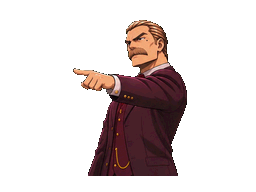
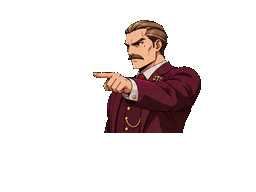
Penna con la hoja del prompt unificado (8 poses en pares, con taza de café)
Claude-Session: https://claude.ai/code/session_01Xb94a44mJyTYV8GKKMfxw2

Changed region(s): [[0.2812, 0.0938, 0.8125, 0.9375]]

diff --git a/js/assets.js b/js/assets.js
@@ -1,7 +1,7 @@
 /* Rutas de las imágenes del juego. Para cambiar un sprite, reemplaza el PNG. */
 const ART={ines:{angry:"assets/personajes/ines/angry.png",angryTalk:"assets/personajes/ines/angryTalk.png",ap1:"assets/personajes/ines/ap1.png",ap10:"assets/personajes/ines/ap10.png",ap11:"assets/personajes/ines/ap11.png",ap12:"assets/personajes/ines/ap12.png",ap13:"assets/personajes/ines/ap13.png",ap14:"assets/personajes/ines/ap14.png",ap15:"assets/personajes/ines/ap15.png",ap16:"assets/personajes/ines/ap16.png",ap2:"assets/personajes/ines/ap2.png",ap3:"assets/personajes/ines/ap3.png",ap4:"assets/personajes/ines/ap4.png",ap5:"assets/personajes/ines/ap5.png",ap6:"assets/personajes/ines/ap6.png",ap7:"assets/personajes/ines/ap7.png",ap8:"assets/personajes/ines/ap8.png",ap9:"assets/personajes/ines/ap9.png",base:"assets/personajes/ines/base.png",down:"assets/personajes/ines/down.png",downTalk:"assets/personajes/ines/downTalk.png",face:"assets/personajes/ines/face.png",le1:"assets/personajes/ines/le1.png",le10:"assets/personajes/ines/le10.png",le11:"assets/personajes/ines/le11.png",le12:"assets/personajes/ines/le12.png",le13:"assets/personajes/ines/le13.png",le14:"assets/personajes/ines/le14.png",le15:"assets/personajes/ines/le15.png",le16:"assets/personajes/ines/le16.png",le2:"assets/personajes/ines/le2.png",le3:"assets/personajes/ines/le3.png",le4:"assets/personajes/ines/le4.png",le5:"assets/personajes/ines/le5.png",le6:"assets/personajes/ines/le6.png",le7:"assets/personajes/ines/le7.png",le8:"assets/personajes/ines/le8.png",le9:"assets/personajes/ines/le9.png",papel:"assets/personajes/ines/papel.png",papelTalk:"assets/personajes/ines/papelTalk.png",point:"assets/personajes/ines/point.png",pointTalk:"assets/personajes/ines/pointTalk.png",shock:"assets/personajes/ines/shock.png",shockTalk:"assets/personajes/ines/shockTalk.png",smug:"assets/personajes/ines/smug.png",smugTalk:"assets/personajes/ines/smugTalk.png",sweat:"assets/personajes/ines/sweat.png",sweatTalk:"assets/personajes/ines/sweatTalk.png",talk:"assets/personajes/ines/talk.png",think:"assets/personajes/ines/think.png",thinkTalk:"assets/personajes/ines/thinkTalk.png"},
 
-fiscal:{angry:"assets/personajes/fiscal/angry.png",angryTalk:"assets/personajes/fiscal/angryTalk.png",base:"assets/personajes/fiscal/base.png",cross:"assets/personajes/fiscal/cross.png",crossTalk:"assets/personajes/fiscal/crossTalk.png",cuff:"assets/personajes/fiscal/cuff.png",cuffTalk:"assets/personajes/fiscal/cuffTalk.png",down:"assets/personajes/fiscal/down.png",downTalk:"assets/personajes/fiscal/downTalk.png",face:"assets/personajes/fiscal/face.png",facepalm:"assets/personajes/fiscal/facepalm.png",facepalmTalk:"assets/personajes/fiscal/facepalmTalk.png",fist:"assets/personajes/fiscal/fist.png",fistTalk:"assets/personajes/fiscal/fistTalk.png",frente_angry:"assets/personajes/fiscal/frente_angry.png",frente_angryTalk:"assets/personajes/fiscal/frente_angryTalk.png",frente_base:"assets/personajes/fiscal/frente_base.png",frente_cross:"assets/personajes/fiscal/frente_cross.png",frente_crossTalk:"assets/personajes/fiscal/frente_crossTalk.png",frente_down:"assets/personajes/fiscal/frente_down.png",frente_downTalk:"assets/personajes/fiscal/frente_downTalk.png",frente_gesture:"assets/personajes/fiscal/frente_gesture.png",frente_gestureTalk:"assets/personajes/fiscal/frente_gestureTalk.png",frente_proud:"assets/personajes/fiscal/frente_proud.png",frente_proudTalk:"assets/personajes/fiscal/frente_proudTalk.png",frente_serious:"assets/personajes/fiscal/frente_serious.png",frente_seriousTalk:"assets/personajes/fiscal/frente_seriousTalk.png",frente_shock:"assets/personajes/fiscal/frente_shock.png",frente_shockTalk:"assets/personajes/fiscal/frente_shockTalk.png",frente_smile:"assets/personajes/fiscal/frente_smile.png",frente_smileTalk:"assets/personajes/fiscal/frente_smileTalk.png",frente_smug:"assets/personajes/fiscal/frente_smug.png",frente_smugTalk:"assets/personajes/fiscal/frente_smugTalk.png",frente_talk:"assets/personajes/fiscal/frente_talk.png",frente_think:"assets/personajes/fiscal/frente_think.png",frente_think2:"assets/personajes/fiscal/frente_think2.png",frente_think2Talk:"assets/personajes/fiscal/frente_think2Talk.png",frente_thinkTalk:"assets/personajes/fiscal/frente_thinkTalk.png",gesture:"assets/personajes/fiscal/gesture.png",gestureTalk:"assets/personajes/fiscal/gestureTalk.png",point:"assets/personajes/fiscal/point.png",pointTalk:"assets/personajes/fiscal/pointTalk.png",proud:"assets/personajes/fiscal/proud.png",proud2:"assets/personajes/fiscal/proud2.png",proud2Talk:"assets/personajes/fiscal/proud2Talk.png",proudTalk:"assets/personajes/fiscal/proudTalk.png",serious:"assets/personajes/fiscal/serious.png",seriousTalk:"assets/personajes/fiscal/seriousTalk.png",shock:"assets/personajes/fiscal/shock.png",shockTalk:"assets/personajes/fiscal/shockTalk.png",smile:"assets/personajes/fiscal/smile.png",smileTalk:"assets/personajes/fiscal/smileTalk.png",smug:"assets/personajes/fiscal/smug.png",smug2:"assets/personajes/fiscal/smug2.png",smug2Talk:"assets/personajes/fiscal/smug2Talk.png",smugTalk:"assets/personajes/fiscal/smugTalk.png",stop:"assets/personajes/fiscal/stop.png",stopTalk:"assets/personajes/fiscal/stopTalk.png",sweat:"assets/personajes/fiscal/sweat.png",sweatTalk:"assets/personajes/fiscal/sweatTalk.png",talk:"assets/personajes/fiscal/talk.png",think:"assets/personajes/fiscal/think.png",think2:"assets/personajes/fiscal/think2.png",think2Talk:"assets/personajes/fiscal/think2Talk.png",thinkTalk:"assets/personajes/fiscal/thinkTalk.png"},
+fiscal:{angry:"assets/personajes/fiscal/angry.png",angryTalk:"assets/personajes/fiscal/angryTalk.png",base:"assets/personajes/fiscal/base.png",cafe:"assets/personajes/fiscal/cafe.png",cafeTalk:"assets/personajes/fiscal/cafeTalk.png",cross:"assets/personajes/fiscal/cross.png",crossTalk:"assets/personajes/fiscal/crossTalk.png",cuff:"assets/personajes/fiscal/cuff.png",cuffTalk:"assets/personajes/fiscal/cuffTalk.png",down:"assets/personajes/fiscal/down.png",downTalk:"assets/personajes/fiscal/downTalk.png",face:"assets/personajes/fiscal/face.png",facepalm:"assets/personajes/fiscal/facepalm.png",facepalmTalk:"assets/personajes/fiscal/facepalmTalk.png",fist:"assets/personajes/fiscal/fist.png",fistTalk:"assets/personajes/fiscal/fistTalk.png",frente_angry:"assets/personajes/fiscal/frente_angry.png",frente_angryTalk:"assets/personajes/fiscal/frente_angryTalk.png",frente_base:"assets/personajes/fiscal/frente_base.png",frente_cross:"assets/personajes/fiscal/frente_cross.png",frente_crossTalk:"assets/personajes/fiscal/frente_crossTalk.png",frente_down:"assets/personajes/fiscal/frente_down.png",frente_downTalk:"assets/personajes/fiscal/frente_downTalk.png",frente_gesture:"assets/personajes/fiscal/frente_gesture.png",frente_gestureTalk:"assets/personajes/fiscal/frente_gestureTalk.png",frente_proud:"assets/personajes/fiscal/frente_proud.png",frente_proudTalk:"assets/personajes/fiscal/frente_proudTalk.png",frente_serious:"assets/personajes/fiscal/frente_serious.png",frente_seriousTalk:"assets/personajes/fiscal/frente_seriousTalk.png",frente_shock:"assets/personajes/fiscal/frente_shock.png",frente_shockTalk:"assets/personajes/fiscal/frente_shockTalk.png",frente_smile:"assets/personajes/fiscal/frente_smile.png",frente_smileTalk:"assets/personajes/fiscal/frente_smileTalk.png",frente_smug:"assets/personajes/fiscal/frente_smug.png",frente_smugTalk:"assets/personajes/fiscal/frente_smugTalk.png",frente_talk:"assets/personajes/fiscal/frente_talk.png",frente_think:"assets/personajes/fiscal/frente_think.png",frente_think2:"assets/personajes/fiscal/frente_think2.png",frente_think2Talk:"assets/personajes/fiscal/frente_think2Talk.png",frente_thinkTalk:"assets/personajes/fiscal/frente_thinkTalk.png",gesture:"assets/personajes/fiscal/gesture.png",gestureTalk:"assets/personajes/fiscal/gestureTalk.png",point:"assets/personajes/fiscal/point.png",pointTalk:"assets/personajes/fiscal/pointTalk.png",proud:"assets/personajes/fiscal/proud.png",proud2:"assets/personajes/fiscal/proud2.png",proud2Talk:"assets/personajes/fiscal/proud2Talk.png",proudTalk:"assets/personajes/fiscal/proudTalk.png",serious:"assets/personajes/fiscal/serious.png",seriousTalk:"assets/personajes/fiscal/seriousTalk.png",shock:"assets/personajes/fiscal/shock.png",shockTalk:"assets/personajes/fiscal/shockTalk.png",smile:"assets/personajes/fiscal/smile.png",smileTalk:"assets/personajes/fiscal/smileTalk.png",smug:"assets/personajes/fiscal/smug.png",smug2:"assets/personajes/fiscal/smug2.png",smug2Talk:"assets/personajes/fiscal/smug2Talk.png",smugTalk:"assets/personajes/fiscal/smugTalk.png",stop:"assets/personajes/fiscal/stop.png",stopTalk:"assets/personajes/fiscal/stopTalk.png",sweat:"assets/personajes/fiscal/sweat.png",sweatTalk:"assets/personajes/fiscal/sweatTalk.png",talk:"assets/personajes/fiscal/talk.png",think:"assets/personajes/fiscal/think.png",think2:"assets/personajes/fiscal/think2.png",think2Talk:"assets/personajes/fiscal/think2Talk.png",thinkTalk:"assets/personajes/fiscal/thinkTalk.png"},
 
 testigo:{base:"assets/personajes/testigo/base.png",talk:"assets/personajes/testigo/talk.png",smug:"assets/personajes/testigo/smug.png",smugTalk:"assets/personajes/testigo/smugTalk.png",proud:"assets/personajes/testigo/proud.png",proudTalk:"assets/personajes/testigo/proudTalk.png",sweat:"assets/personajes/testigo/sweat.png",sweatTalk:"assets/personajes/testigo/sweatTalk.png",shock:"assets/personajes/testigo/shock.png",shockTalk:"assets/personajes/testigo/shockTalk.png",angry:"assets/personajes/testigo/angry.png",angryTalk:"assets/personajes/testigo/angryTalk.png",break:"assets/personajes/testigo/break.png",breakTalk:"assets/personajes/testigo/breakTalk.png",cry:"assets/personajes/testigo/cry.png",cryTalk:"assets/personajes/testigo/cryTalk.png",face:"assets/personajes/testigo/face.png"},
 

diff --git a/js/engine.js b/js/engine.js
@@ -578,7 +578,7 @@ function drawBG(pos){
 /* Qué celda de la hoja usa cada emoción: [callado, hablando, parpadeo] */
 const AMAP={
   ines:{normal:["base","talk"],serious:["base","talk"],smug:["smug","smugTalk"],smile:["smug","smugTalk"],sweat:["sweat","sweatTalk"],shock:["shock","shockTalk"],think:["think","thinkTalk"],angry:["angry","angryTalk"],down:["down","downTalk"],"pose:point":["point","pointTalk"],"pose:papel":["papel","papelTalk"],"pose:papelThink":["le16","le16"]},
-  fiscal:{normal:["base","talk"],serious:["base","talk"],smug:["smug","smugTalk"],smile:["smile","smileTalk"],shock:["shock","shockTalk"],sweat:["sweat","sweatTalk"],angry:["angry","angryTalk"],disdain:["cross","crossTalk"],think:["think","thinkTalk"],proud:["proud2","proud2Talk"],laugh:["proud","proudTalk"],down:["down","downTalk"],facepalm:["facepalm","facepalmTalk"],"pose:point":["point","pointTalk"],"pose:cafe":["fist","fistTalk"],"pose:gesto":["gesture","gestureTalk"],"pose:cruzado":["cross","crossTalk"],"pose:alto":["stop","stopTalk"],"pose:puno":["fist","fistTalk"]},
+  fiscal:{normal:["base","talk"],serious:["base","talk"],smug:["smug","smugTalk"],smile:["smile","smileTalk"],shock:["shock","shockTalk"],sweat:["sweat","sweatTalk"],angry:["angry","angryTalk"],disdain:["cross","crossTalk"],think:["think","thinkTalk"],proud:["proud2","proud2Talk"],laugh:["proud","proudTalk"],down:["down","downTalk"],facepalm:["facepalm","facepalmTalk"],"pose:point":["point","pointTalk"],"pose:cafe":["cafe","cafeTalk"],"pose:gesto":["gesture","gestureTalk"],"pose:cruzado":["cross","crossTalk"],"pose:alto":["stop","stopTalk"],"pose:puno":["fist","fistTalk"]},
   testigo:{normal:["base","talk"],smile:["proud","proudTalk"],smug:["smug","smugTalk"],sweat:["sweat","sweatTalk"],shock:["shock","shockTalk"],angry:["angry","angryTalk"],break:["break","breakTalk"],cry:["cry","cryTalk"]},
   jueza:{normal:["base","talk"],serious:["serious","seriousTalk"],shock:["shock","shockTalk"],think:["think","thinkTalk"],smile:["smile","smileTalk"],confused:["confused","confusedTalk"],disappoint:["disappoint","disappointTalk"],gavel:["gavel","gavelTalk"]},
   cote:{normal:["base","talk"],smile:["happy","happyTalk"],eat:["happy","happyTalk"],excited:["excited","excitedTalk"],think:["think","thinkTalk"],serious:["serious","seriousTalk"],sweat:["sweat","sweatTalk"],worried:["sweat","sweatTalk"],shock:["shock","shockTalk"],pout:["pout","poutTalk"]},

diff --git a/prueba-final.html b/prueba-final.html
@@ -5,7 +5,7 @@
 <meta name="viewport" content="width=device-width, initial-scale=1">
 <title>ACTA CERO — Prueba del final</title>
 <link href="https://fonts.googleapis.com/css2?family=Bebas+Neue&family=Pixelify+Sans:wght@400;700&display=swap" rel="stylesheet">
-<link rel="stylesheet" href="css/style.css?v=53">
+<link rel="stylesheet" href="css/style.css?v=54">
 </head>
 <body>
 <div id="ds">
@@ -49,15 +49,15 @@
     <div class="hint">Activa el sonido · toca la pantalla de abajo para avanzar</div>
   </div>
 </div>
-<script src="js/casos.js?v=53"></script>
-<script src="casos/caso1.js?v=53"></script>
-<script src="casos/caso2.js?v=53"></script>
-<script src="js/audio.js?v=53"></script>
-<script src="js/sprites.js?v=53"></script>
-<script src="js/assets.js?v=53"></script>
-<script src="js/engine.js?v=53"></script>
-<script src="js/investigacion.js?v=53"></script>
-<script src="js/musica.js?v=53"></script>
+<script src="js/casos.js?v=54"></script>
+<script src="casos/caso1.js?v=54"></script>
+<script src="casos/caso2.js?v=54"></script>
+<script src="js/audio.js?v=54"></script>
+<script src="js/sprites.js?v=54"></script>
+<script src="js/assets.js?v=54"></script>
+<script src="js/engine.js?v=54"></script>
+<script src="js/investigacion.js?v=54"></script>
+<script src="js/musica.js?v=54"></script>
 <script>
 /* Versión de prueba: salta directo al veredicto y la escena final del Caso 1. No toca la partida guardada. */
 saveGame=function(){ return true; }; clearSave=function(){};

diff --git a/index.html b/index.html
@@ -5,7 +5,7 @@
 <meta name="viewport" content="width=device-width, initial-scale=1">
 <title>ACTA CERO</title>
 <link href="https://fonts.googleapis.com/css2?family=Bebas+Neue&family=Pixelify+Sans:wght@400;700&display=swap" rel="stylesheet">
-<link rel="stylesheet" href="css/style.css?v=53">
+<link rel="stylesheet" href="css/style.css?v=54">
 </head>
 <body>
 <div id="ds">
@@ -48,14 +48,14 @@
     <div class="hint">Activa el sonido · toca la pantalla de abajo para avanzar</div>
   </div>
 </div>
-<script src="js/casos.js?v=53"></script>
-<script src="casos/caso1.js?v=53"></script>
-<script src="casos/caso2.js?v=53"></script>
-<script src="js/audio.js?v=53"></script>
-<script src="js/sprites.js?v=53"></script>
-<script src="js/assets.js?v=53"></script>
-<script src="js/engine.js?v=53"></script>
-<script src="js/investigacion.js?v=53"></script>
-<script src="js/musica.js?v=53"></script>
+<script src="js/casos.js?v=54"></script>
+<script src="casos/caso1.js?v=54"></script>
+<script src="casos/caso2.js?v=54"></script>
+<script src="js/audio.js?v=54"></script>
+<script src="js/sprites.js?v=54"></script>
+<script src="js/assets.js?v=54"></script>
+<script src="js/engine.js?v=54"></script>
+<script src="js/investigacion.js?v=54"></script>
+<script src="js/musica.js?v=54"></script>
 </body>
 </html>

diff --git a/herramientas/penna4.py b/herramientas/penna4.py
@@ -105,7 +105,8 @@ BP=BF=None
 TABLAS={'v3':{'base':(1,2),'smug':(3,2),'proud':(5,None),'smug2':(6,2),'cross':(7,8),'cuff':(9,None),'think':(10,None),'think2':(11,None),
    'facepalm':(12,None),'gesture':(13,14),'stop':(15,16),'point':(17,18),'fist':(21,22),'angry':(23,24),
    'shock':(25,26),'sweat':(27,28),'down':(29,None),'proud2':(31,32),'serious':(1,2),'smile':(6,2)},
- 'v4':{'base':(1,2),'cross':(3,4),'fist':(5,6),'point':(7,8)}}
+ 'v4':{'base':(1,2),'cross':(3,4),'fist':(5,6),'point':(7,8)},
+ 'v5':{'base':(1,2),'smug':(3,4),'cross':(5,6),'point':(7,8),'angry':(9,10),'shock':(11,12),'sweat':(13,14),'cafe':(15,16)}}
 P=TABLAS[os.environ.get('TABLA','v3')]
 FR={}
 def save(n,im): im.save(f'{OUT}/{n}.png',optimize=True)

diff --git a/CLAUDE.md b/CLAUDE.md
@@ -89,12 +89,12 @@ Justo: poses de `arte-original/justo-perfil-b.png` (perfil, **siempre mira a la 
 los lentes y toma un papel). `TRANS` en engine.js pasa esos cuadros al entrar o salir de `pose:"point"` y `pose:"papel"`
 (`papelThink` = pensando con el papel). Las tres hojas se alinean juntas con `herramientas/justo.py` (args: carpeta 50 142 -20). Los cuadros vienen corridos
 a la izquierda para que el brazo al apuntar salga entero; el CSS (`#sprite[data-who=ines]`) compensa la posición.
-Penna: de perfil. Normal, `cruzado`, `puno` y `point` salen de `arte-original/penna-v4.jpg` (4×2, medio cuerpo):
-`SHEET=arte-original/penna-v4.jpg GX=4 GY=2 TABLA=v4 HH=140 HEADY=20 python3 herramientas/penna4.py CARPETA 46 0 18`.
-El resto de las caras, de `penna-v3.jpg` al mismo tamaño: `HH=110 HEADY=20 python3 herramientas/penna4.py CARPETA 54 0 20`
-(se juntan en la misma carpeta; las 4 poses de v4 reemplazan a las de v3). Al hablar solo se pega la boca.
+Penna: de perfil. Hoja principal `arte-original/penna-v5.jpg` (4×4, el formato del prompt unificado): normal, smug, cruzado,
+point, angry, shock, sweat y `cafe` (con taza): `SHEET=arte-original/penna-v5.jpg GX=4 GY=4 TABLA=v5 HH=110 HEADY=20
+python3 herramientas/penna4.py CARPETA 41 0 18`. Las caras que no trae (think, down, facepalm, proud, laugh, gesto, alto, puno)
+vienen de `penna-v3.jpg`/`penna-v4.jpg` al mismo tamaño (ver TABLAS en penna4.py). Al hablar solo se pega la boca.
 De frente (`frente_*`, de `arte-original/penna-nuevo.jpg` con `herramientas/penna.py`) se usa **fuera de la fiscalía**.
-Poses: `point`, `cafe` (puño al pecho de la hoja v4: no hay café), `gesto`, `cruzado`, `alto` (mano en alto), `puno` (puño al pecho);
+Poses: `point`, `cafe` (taza de café), `gesto`, `cruzado`, `alto` (mano en alto), `puno` (puño al pecho);
 emociones extra: `think`, `proud` (mentón arriba), `laugh` (se ríe), `down`, `facepalm`.
 
 ## Pantalla de abajo (HUD)
